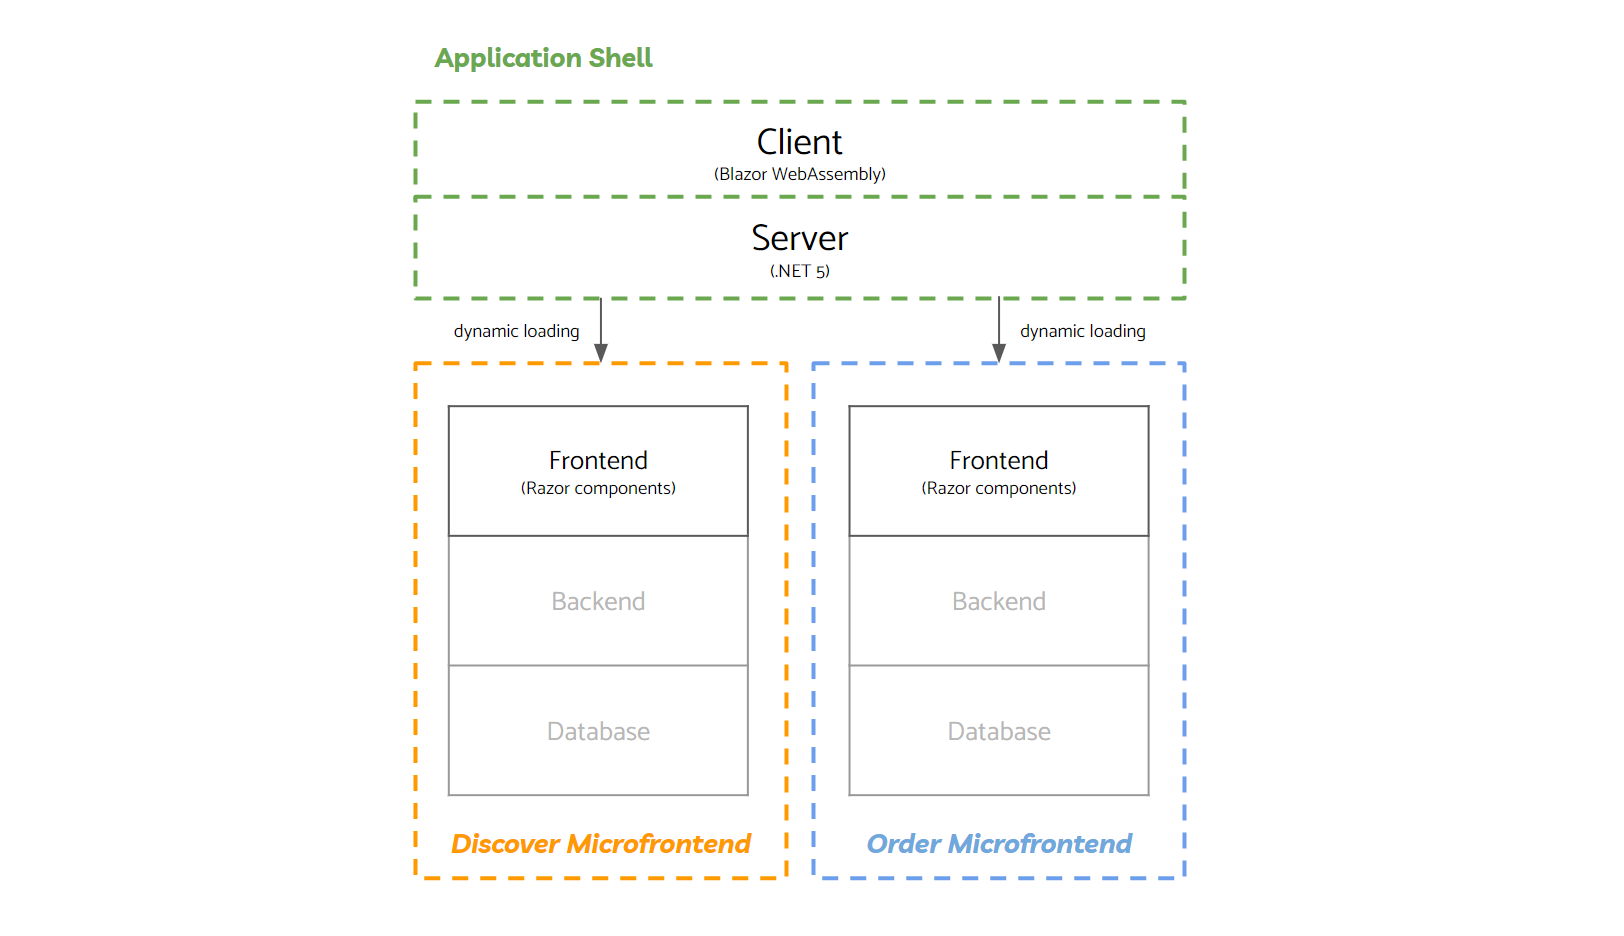
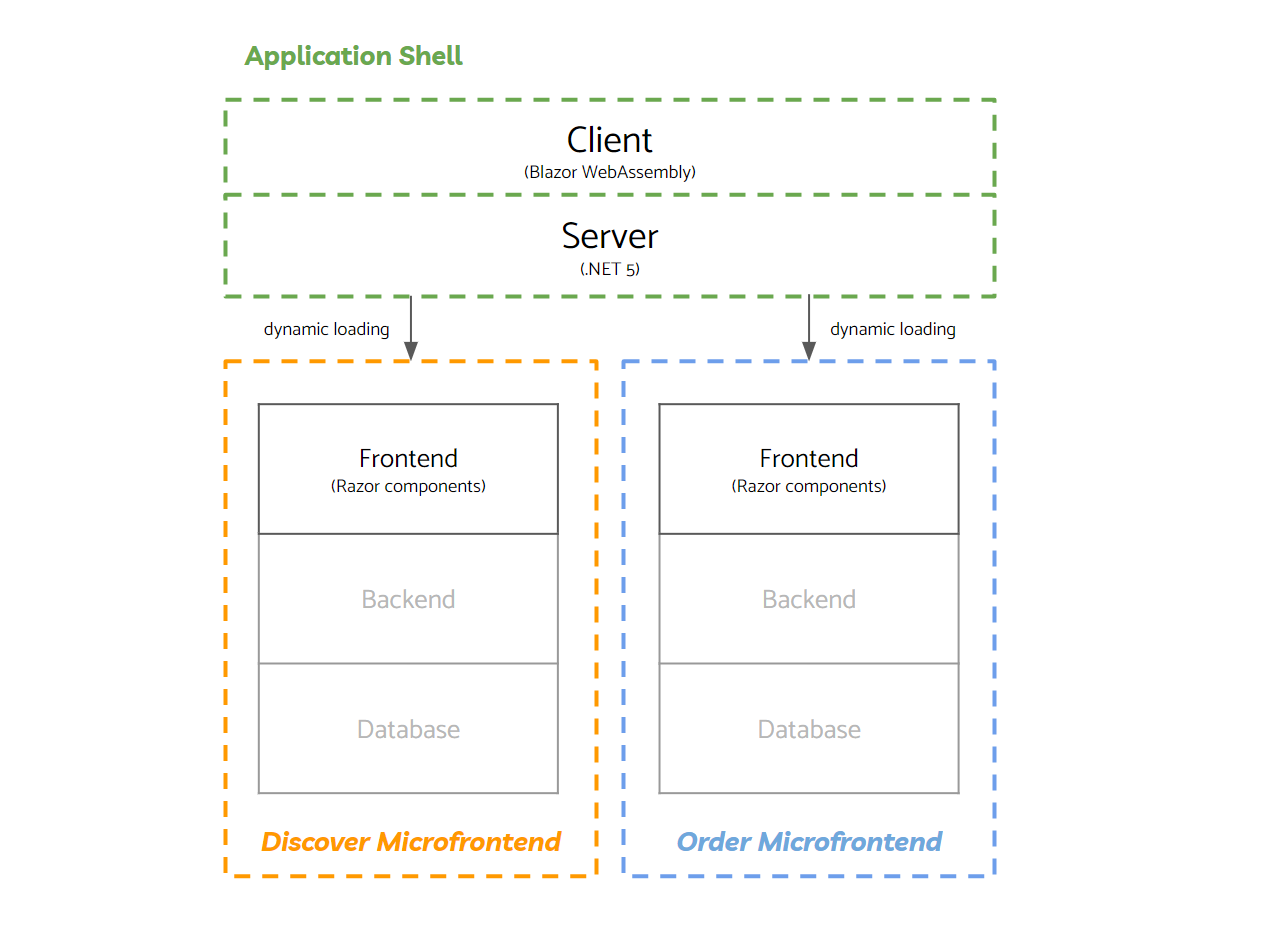
Fix image and caption

diff --git a/thesis/partials/proof-of-concept.tex b/thesis/partials/proof-of-concept.tex
@@ -79,12 +79,11 @@ mainly consists of 3 parts:
   \includegraphics[width=0.8\textwidth]{poc-architecture}
   \caption[Architecture overview for proof-of-concept solution]{The architecture
   overview for the proof-of-concept solution. In the \glsplural{microfrontend},
-  only the \gls{frontend} has been implementated in the \gls{poc}, while the
-  other elements were mocked using in-memory solutions for demonstration
-  purposes.  }
+  only the \gls{frontend} has been implemented in the \gls{poc}, while the other
+  elements were mocked using in-memory solutions for demonstration purposes.  
+  }
   \label{fig:poc-architecture}
 \end{figure}
-
 
 \subsection{Composition structure}
 \label{ssec:poc-composition}
